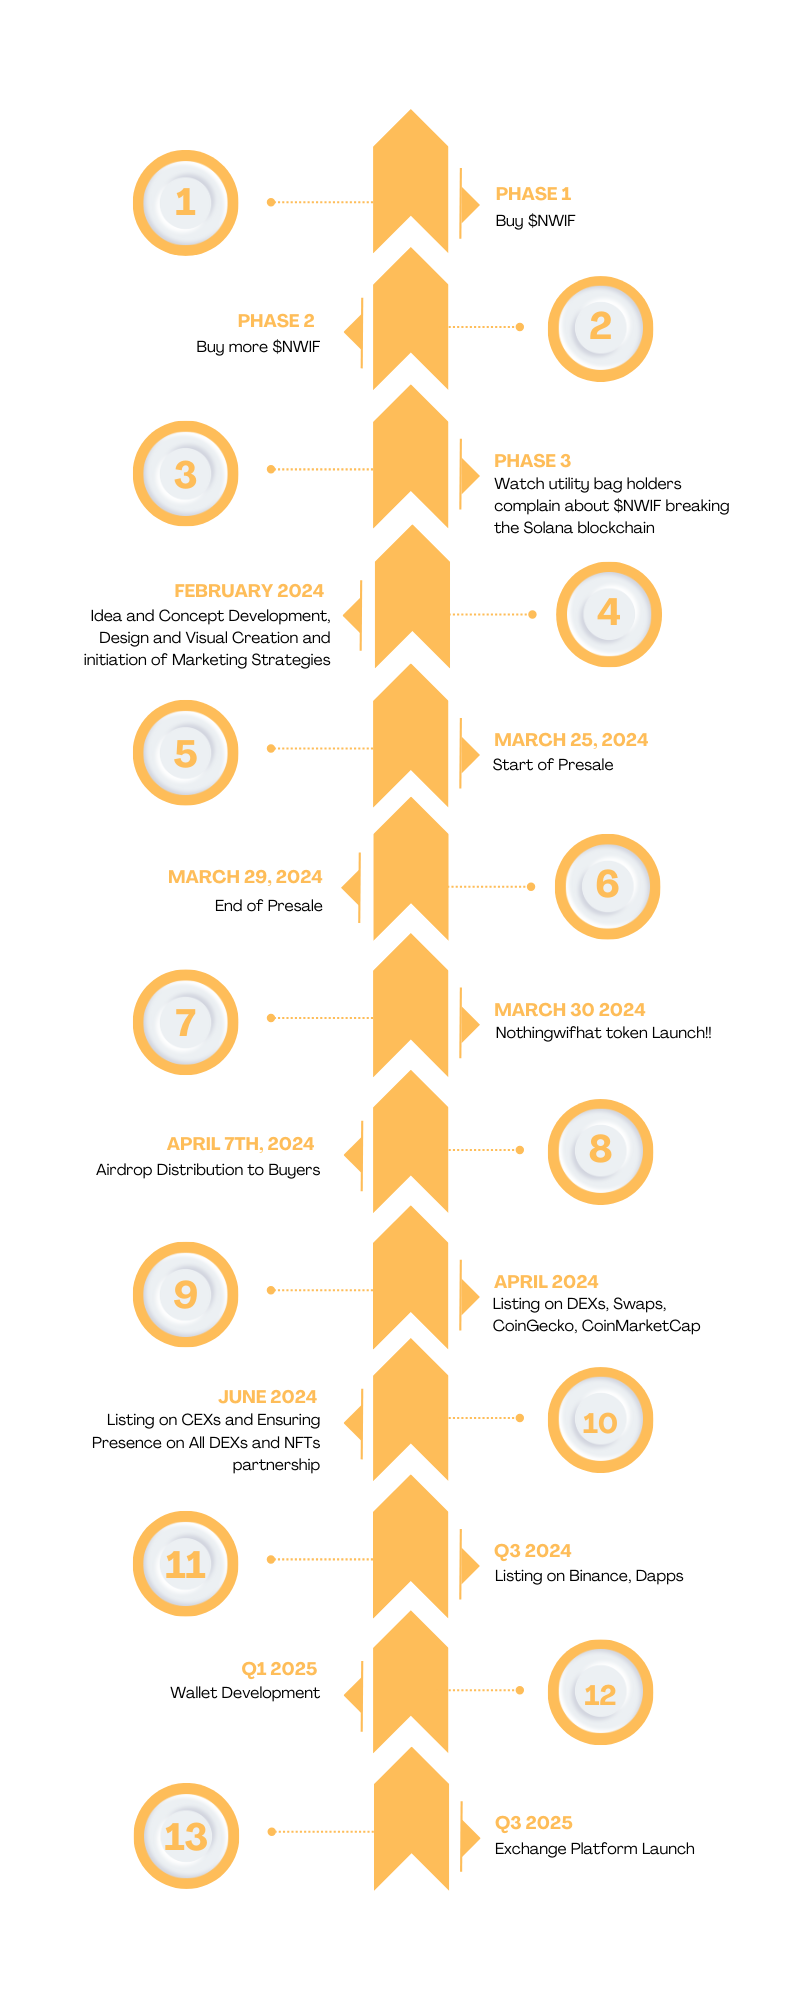
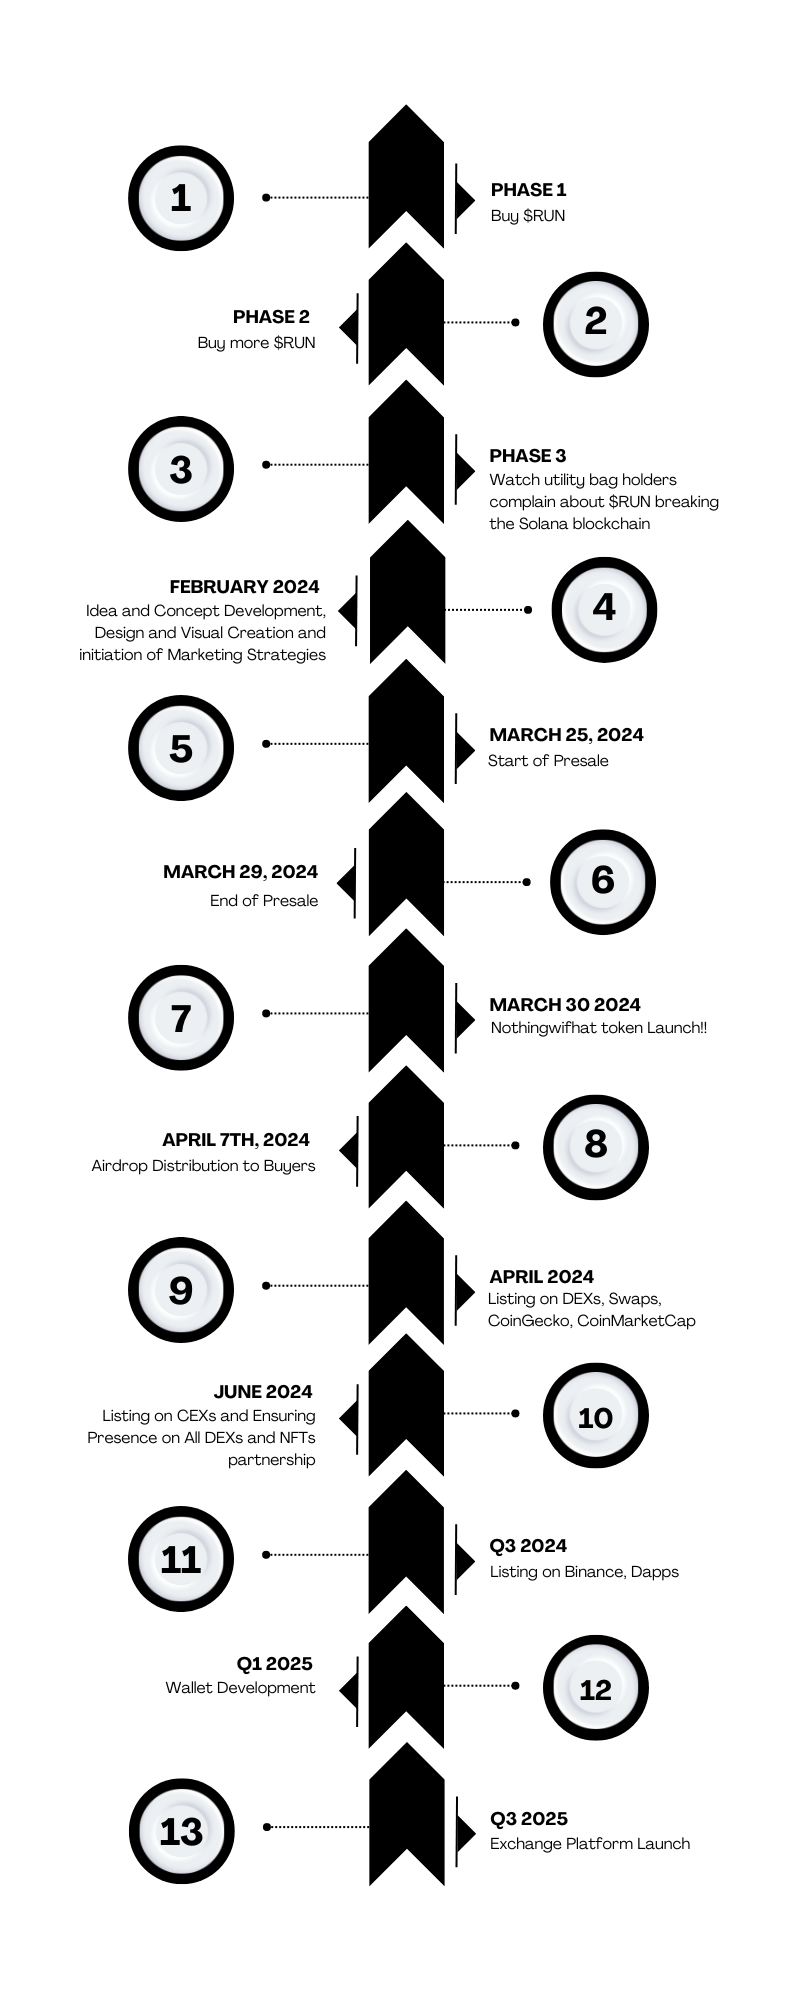
updates

Changed region(s): [[0.0938, 0.031, 0.9062, 0.961], [0.125, 0.62, 0.4062, 0.961], [0.1562, 0.062, 0.3125, 0.155]]

diff --git a/src/App.jsx b/src/App.jsx
@@ -1,7 +1,7 @@
 import { useEffect } from "react";
 import "./App.css";
 import roadmap from "./assets/roadmap.png";
-import sm from "./assets/sm.jpg";
+import sm from "./assets/hero.jpg";
 import img1 from "./assets/1.jpg";
 import img2 from "./assets/2.jpg";
 import img3 from "./assets/3.jpg";
@@ -24,7 +24,7 @@ function App() {
     <div className="App flex flex-col justify-center overflow-x-hidden items-center">
       {/* PRESALE NOTIFICATION IN RED BACKGROUND */}
       <div className="pt-8">
-        <p className="text-xl py-1 bg-[#FEBD59] text-white font-semibold px-6 w-fit">
+        <p className="text-xl py-1 bg-[#000] text-white font-semibold px-6 w-fit">
           The presale begins on March 25th at 12pm UTC
         </p>
       </div>
@@ -57,42 +57,42 @@ function App() {
         <a
           href="#presale"
           data-aos="flip-up"
-          className="w-fit md:py-6 py-3 md:px-16 px-8 bg-[#FEBD59] text-black hover:text-[#3f3629] rounded-lg hover:bg-transparent border border-[#FEBD59]"
+          className="w-fit md:py-6 py-3 md:px-16 px-8 bg-[#000] text-white hover:text-[#3f3629] rounded-lg hover:bg-transparent border border-[#000]"
         >
           Presale
         </a>
         <a
           href="#about"
           data-aos="flip-up"
-          className="w-fit md:py-6 py-3 md:px-16 px-8 bg-[#FEBD59] text-black hover:text-[#FEBD59] rounded-lg hover:bg-transparent border border-[#FEBD59]"
+          className="w-fit md:py-6 py-3 md:px-16 px-8 bg-[#000] text-white hover:text-[#000] rounded-lg hover:bg-transparent border border-[#000]"
         >
           About
         </a>
         <a
           href="#team"
           data-aos="flip-up"
-          className="w-fit md:py-6 py-3 md:px-16 px-8 bg-[#FEBD59] text-black hover:text-[#FEBD59] rounded-lg hover:bg-transparent border border-[#FEBD59]"
+          className="w-fit md:py-6 py-3 md:px-16 px-8 bg-[#000] text-white hover:text-[#000] rounded-lg hover:bg-transparent border border-[#000]"
         >
           Team
         </a>
         <a
           href="#roadmap"
           data-aos="flip-up"
-          className="w-fit md:py-6 py-3 md:px-16 px-8 bg-[#FEBD59] text-black hover:text-[#FEBD59] rounded-lg hover:bg-transparent border border-[#FEBD59]"
+          className="w-fit md:py-6 py-3 md:px-16 px-8 bg-[#000] text-white hover:text-[#000] rounded-lg hover:bg-transparent border border-[#000]"
         >
           Roadmap
         </a>
         <a
           href="#howitwork"
           data-aos="flip-up"
-          className="w-fit md:py-6 py-3 md:px-16 px-8 bg-[#FEBD59] text-black hover:text-[#FEBD59] rounded-lg hover:bg-transparent border border-[#FEBD59]"
+          className="w-fit md:py-6 py-3 md:px-16 px-8 bg-[#000] text-white hover:text-[#000] rounded-lg hover:bg-transparent border border-[#000]"
         >
           How it works
         </a>
         <a
           href="#bonus"
           data-aos="flip-up"
-          className="w-fit md:py-6 py-3 md:px-16 px-8 bg-[#FEBD59] text-black hover:text-[#FEBD59] rounded-lg hover:bg-transparent border border-[#FEBD59]"
+          className="w-fit md:py-6 py-3 md:px-16 px-8 bg-[#000] text-white hover:text-[#000] rounded-lg hover:bg-transparent border border-[#000]"
         >
           Bonus
         </a>
@@ -134,7 +134,7 @@ function App() {
       >
         <div
           data-aos="fade-up"
-          className="bg-yellow-400 lg:w-[90%] w-full py-5 rounded-md text-3xl font-bold"
+          className="bg-[#000] text-white lg:w-[90%] w-full py-5 rounded-md text-3xl font-bold"
         >
           Presale
         </div>
@@ -225,7 +225,7 @@ function App() {
       >
         <div
           data-aos="fade-up"
-          className="bg-yellow-400 lg:w-[90%] w-full py-5 rounded-md text-3xl font-bold"
+          className="bg-[#000] text-white lg:w-[90%] w-full py-5 rounded-md text-3xl font-bold"
         >
           About
         </div>
@@ -266,7 +266,7 @@ function App() {
       >
         <div
           data-aos="fade-up"
-          className="bg-yellow-400 lg:w-[90%] w-full py-5 rounded-md text-3xl font-bold"
+          className="bg-[#000] text-white lg:w-[90%] w-full py-5 rounded-md text-3xl font-bold"
         >
           Team
         </div>
@@ -312,7 +312,7 @@ function App() {
       >
         <div
           data-aos="fade-up"
-          className="bg-yellow-400 lg:w-[90%] w-full py-5 rounded-md text-3xl font-bold"
+          className="bg-[#000] text-white lg:w-[90%] w-full py-5 rounded-md text-3xl font-bold"
         >
           Roadmap
         </div>
@@ -329,7 +329,7 @@ function App() {
       >
         <div
           data-aos="fade-up"
-          className="bg-yellow-400 lg:w-[90%] w-full py-5 rounded-md text-3xl font-bold"
+          className="bg-[#000] text-white lg:w-[90%] w-full py-5 rounded-md text-3xl font-bold"
         >
           How it works
         </div>
@@ -405,7 +405,7 @@ function App() {
       >
         <div
           data-aos="fade-up"
-          className="bg-yellow-400 lg:w-[90%] w-full py-5 rounded-md text-3xl font-bold"
+          className="bg-[#000] text-white lg:w-[90%] w-full py-5 rounded-md text-3xl font-bold"
         >
           Market Bonus
         </div>
@@ -466,7 +466,7 @@ function App() {
           info@rune_sol.com
         </a>
         <div className="pt-4">
-          Copyright © nothingwifhat.com, NOTHINGWIFHAT. All rights reserved.
+          Copyright © runes_sol.com, RUNES_SOL. All rights reserved.
         </div>
       </footer>
     </div>
